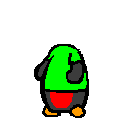
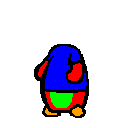
Chickens move around, updated player sprites

Changed region(s): [[0.2812, 0.3438, 0.6875, 0.875]]

diff --git a/entities/behaviors/NPC/ChickenGangMemeber.cs b/entities/behaviors/NPC/ChickenGangMemeber.cs
@@ -1,15 +1,23 @@
-using System;
+using Microsoft.Xna.Framework;
+using System;
 
 namespace Adventure
 {
 	public class ChickenGangMember : CharacterBehavior
 	{
+        double speedx = 300;
+        double speedy = 190;
+
+        Vector2 targetPosition;
+        Vector2 startPosition;
+        bool firstUpdate = true;
 
 		static String[] sayings = {
 			"cluck", "bwaack", "bwaaaaaacccck", "cluck, cluck"
 		};
 
 		public ChickenGangMember (SoundFont speech) : base (speech) {
+
 		}
 
 		override public void RespondToInteraction(Character player) {
@@ -17,5 +25,67 @@ namespace Adventure
 			character.facingLeft = player.position.X < character.position.X;
 			EmitRandom (sayings);
 		}
+
+        override public void Update(GameTime elapsed)
+        {
+            if (firstUpdate)
+            {
+                startPosition = character.position;
+                firstUpdate = false;
+            }
+            
+            if (targetPosition != Vector2.Zero && Vector2.Distance(targetPosition, character.position) > 5)
+            {
+                character.PlayAnimBody("walk");
+                Vector2 movement = new Vector2(0, 0);
+
+                if (Math.Abs(targetPosition.X - character.position.X) > 3)
+                {
+                    if (targetPosition.X > character.position.X)
+                    {
+                        movement.X += (float)(elapsed.ElapsedGameTime.TotalSeconds);
+                    }
+                    else
+                    {
+                        movement.X -= (float)(elapsed.ElapsedGameTime.TotalSeconds);
+                    }
+                }
+
+                if (Math.Abs(targetPosition.Y - character.position.Y) > 3)
+                {
+                    if (targetPosition.Y > character.position.Y)
+                    {
+                        movement.Y += (float)(elapsed.ElapsedGameTime.TotalSeconds);
+                    }
+                    else
+                    {
+                        movement.Y -= (float)(elapsed.ElapsedGameTime.TotalSeconds);
+                    }
+                }
+
+                if (movement.X < 0)
+                    character.facingLeft = true;
+                else if (movement.X > 0)
+                    character.facingLeft = false;
+
+                movement.Normalize();
+                movement = movement * (float)elapsed.ElapsedGameTime.TotalSeconds;
+                movement.X *= (float)speedx;
+                movement.Y *= (float)speedy;
+                Vector2 newPosition = character.position + movement;
+
+                if (!MoveCharacter(newPosition))
+                {
+                    targetPosition = character.position;
+                }
+            }
+            else
+            {
+                character.PlayAnimBody("idle");
+                if (AdventureGame.RandomNumber.Next(500) == 1)
+                    targetPosition = startPosition + new Vector2(AdventureGame.RandomNumber.Next(-100, 100), AdventureGame.RandomNumber.Next(-100, 100));
+            }
+            base.Update(elapsed);
+        }
 	}
 }

diff --git a/entities/behaviors/CharacterBehavior.cs b/entities/behaviors/CharacterBehavior.cs
@@ -17,6 +17,38 @@ namespace Adventure
 			base.Update (elapsed);
 		}
 
+        public bool MoveCharacter(Vector2 newPosition)
+        {
+            bool moved = false;
+            if (character.position.X != newPosition.X && !CharacterCollidesWithMap(new Vector2(newPosition.X, character.position.Y)))
+            {
+                character.position.X = newPosition.X;
+                moved = true;
+            }
+            if (character.position.Y != newPosition.Y && !CharacterCollidesWithMap(new Vector2(character.position.X, newPosition.Y)))
+            {
+                character.position.Y = newPosition.Y;
+                moved = true;
+            }
+            return moved;
+        }
+
+        protected bool CharacterCollidesWithMap(Vector2 pos)
+        {
+            //Width and height of player collision
+            int width = 15;
+            int height = 15;
+            for (int y = 0; y < height; y++)
+            {
+                for (int x = -width; x < width; x++)
+                {
+                    if (AdventureGame.instance.collisionMap[(int)pos.Y + y, (int)pos.X + x] == 1)
+                        return true;
+                }
+            }
+            return false;
+        }
+
 		public Character character;
 		override public void BindToEntity(InteractableEntity entity) {
 			base.BindToEntity(entity);

diff --git a/entities/behaviors/PlayerBehavior.cs b/entities/behaviors/PlayerBehavior.cs
@@ -76,16 +76,8 @@ namespace Adventure
 					}
 				}
 
-                if (!PlayerCollidesWithMap(new Vector2(newPosition.X, character.position.Y)))
-                {
-                    character.position.X = newPosition.X;
-                }
-                if (!PlayerCollidesWithMap(new Vector2(character.position.X, newPosition.Y)))
-                {
-                    character.position.Y = newPosition.Y;
-                }
+                MoveCharacter(newPosition);
 
-                
 			} else {
 				character.PlayAnimBody("idle");
 			}
@@ -106,21 +98,7 @@ namespace Adventure
 			}
 		}
 
-        protected bool PlayerCollidesWithMap(Vector2 pos)
-        {
-            //Width and height of player collision
-            int width = 15;
-            int height = 15;
-            for (int y = 0; y < height; y++)
-            {
-                for (int x = -width; x < width; x++)
-                {
-                    if (AdventureGame.instance.collisionMap[(int)pos.Y + y, (int)pos.X + x] == 1)
-                        return true;
-                }
-            }
-            return false;
-        }
+
 
 		HighlightManager highlights = new HighlightManager();
 		protected void UpdateHighlights() {
